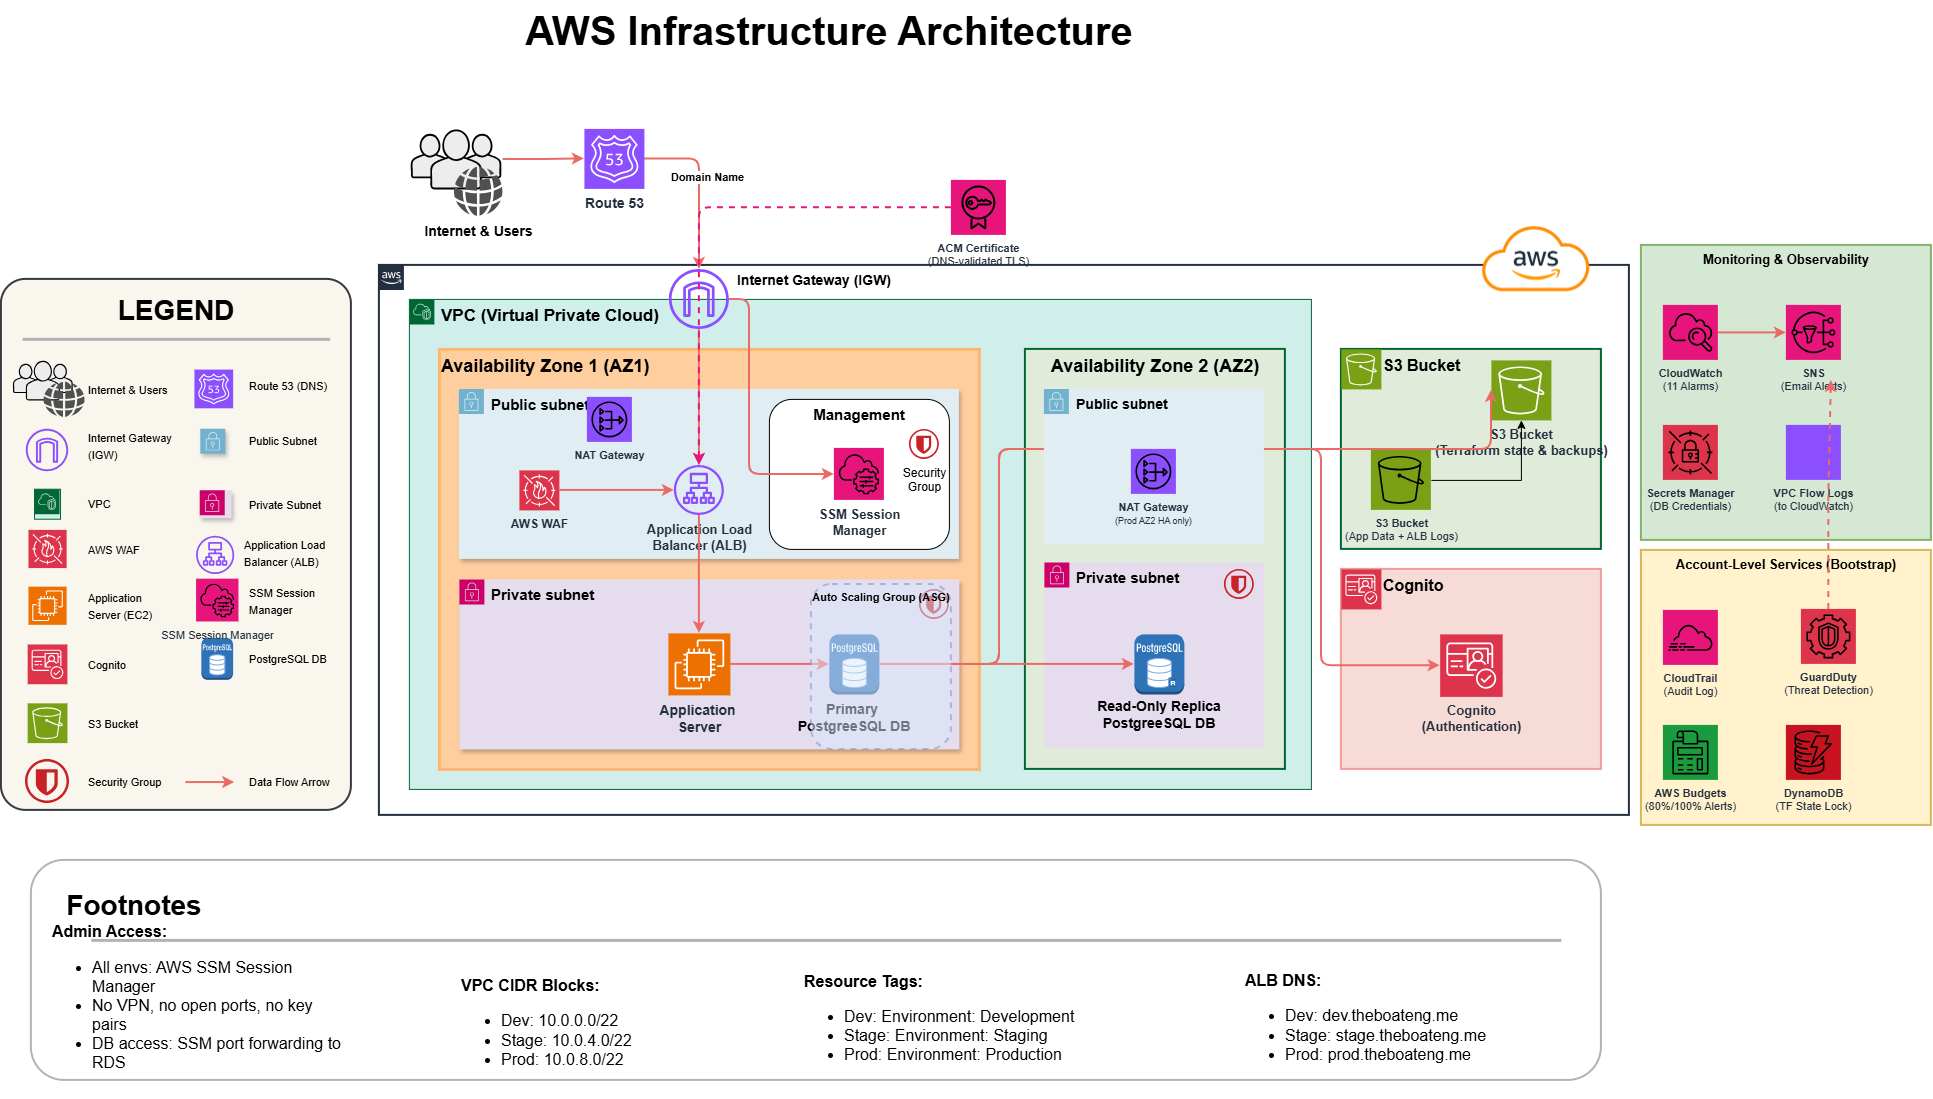
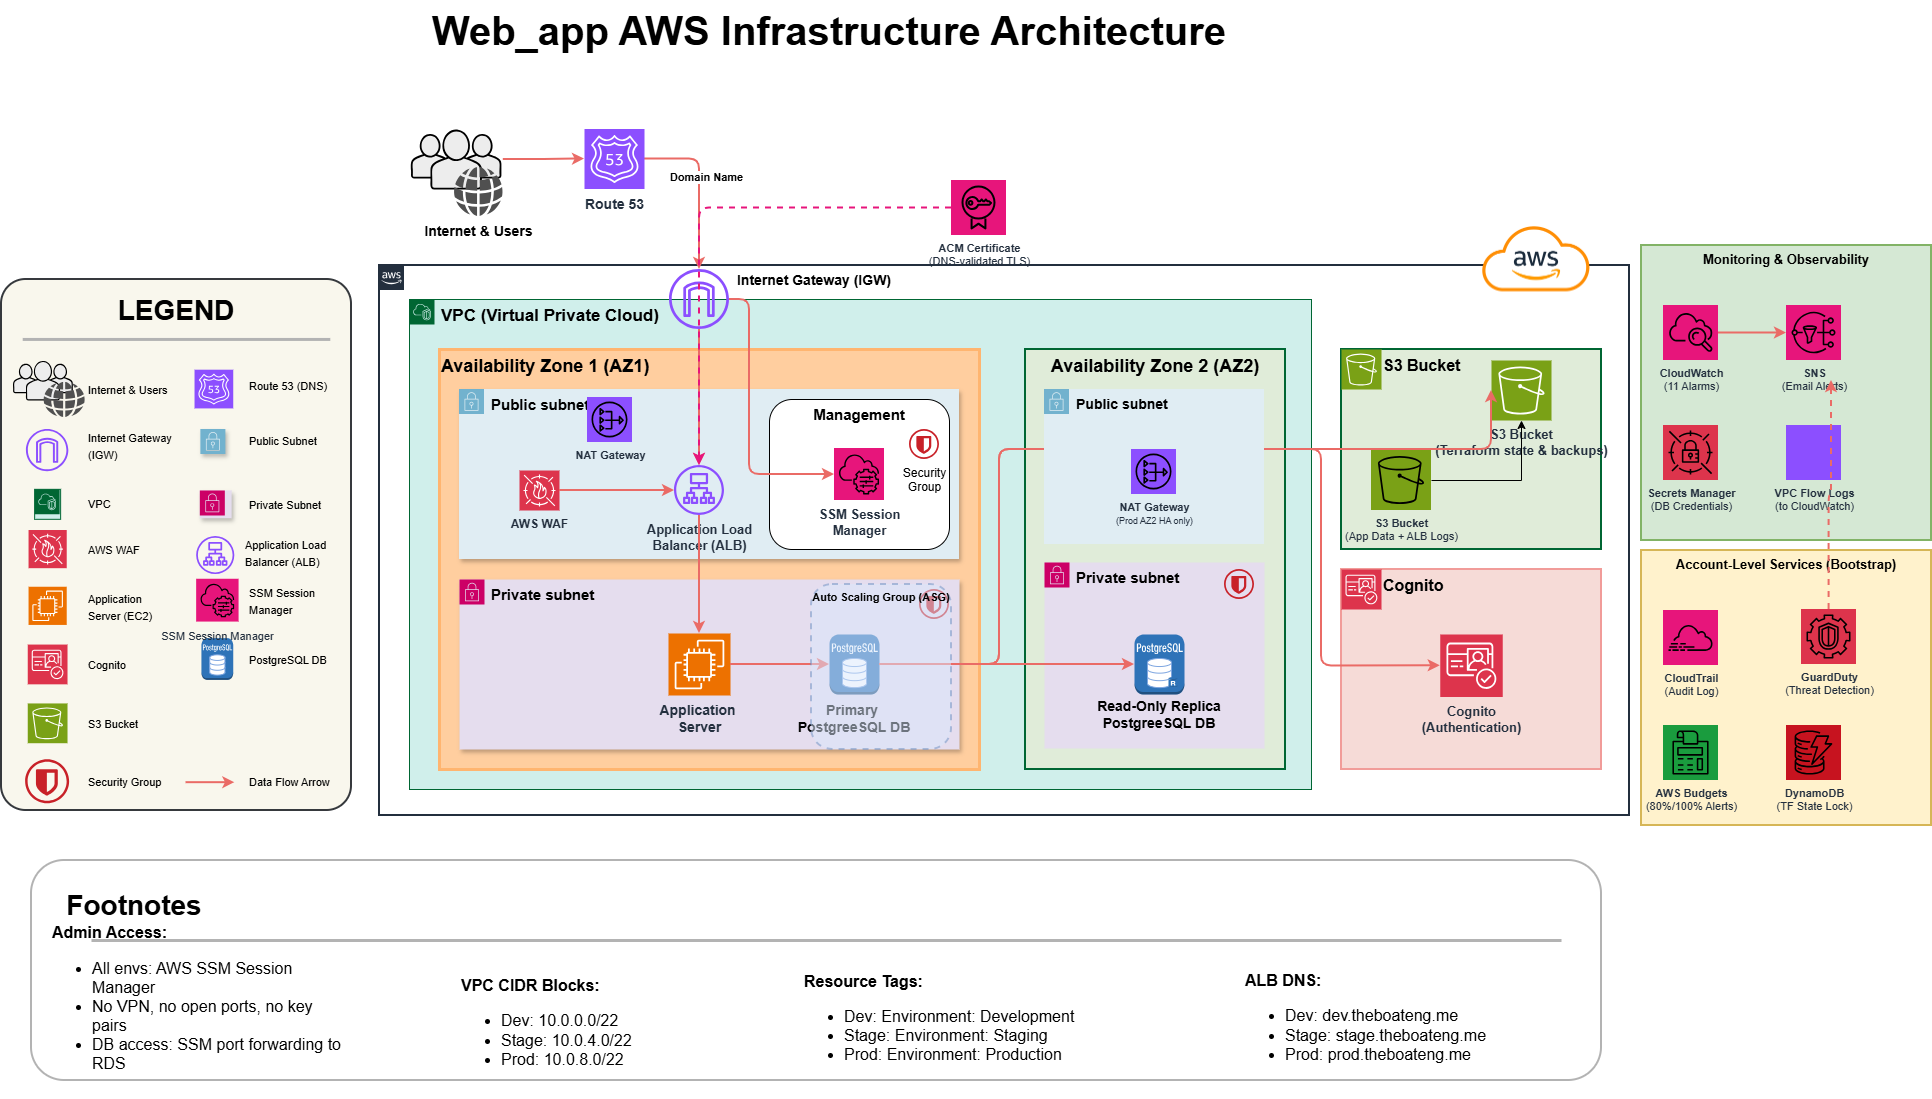
Rename project to Web_app_infra and update diagrams

diff --git a/REQUIREMENTS.md b/REQUIREMENTS.md
@@ -194,7 +194,7 @@ If you received this project as a zip file, unzip it to a local folder. If it is
 
 ```bash
 git clone <repository-url>
-cd Gabriel_Infra
+cd Web_app_infra
 ```
 
 ---
@@ -330,7 +330,7 @@ Similarly, for GuardDuty alerts (which fire for HIGH/CRITICAL security threats),
 Before touching any files, here is what each folder does:
 
 ```
-Gabriel_Infra/
+Web_app_infra/
 ├── bootstrap/              Run ONCE per AWS account. Creates the S3 bucket that
 │                           stores Terraform's memory, plus account-wide security.
 │

diff --git a/Report.md b/Report.md
@@ -1,6 +1,6 @@
-# Gabriel_Infra — Deployment Report
+# Web_app_infra — Deployment Report
 
-**Project:** Gabriel_Infra  
+**Project:** Web_app_infra  
 **Domain:** theboateng.me (Namecheap)  
 **Cloud:** AWS — us-east-1  
 **AWS Account ID:** 310688446551  

diff --git a/README.md b/README.md
@@ -1,4 +1,4 @@
-# Gabriel Infra — AWS Infrastructure with Terraform
+# Web_app_infra — AWS Infrastructure with Terraform
 
 ![Web App Infrastructure Diagram](web_app_infra.png)
 
